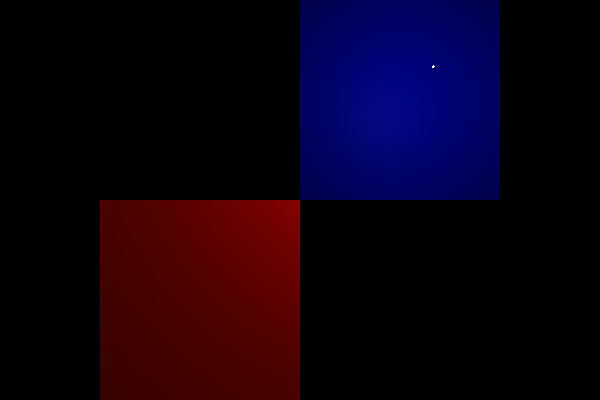
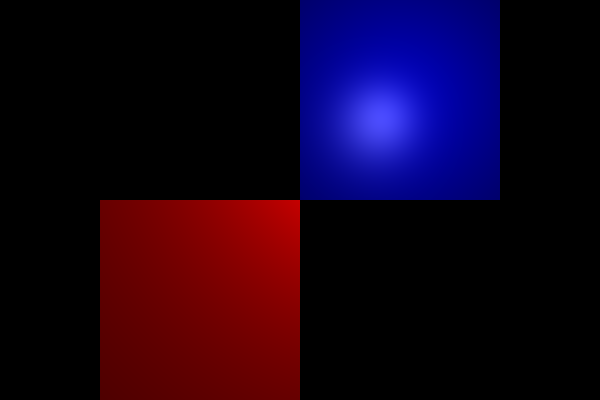
Changed glm's ray-triangle intersection to Möller–Trumbore algorithm.

diff --git a/include/camera.hpp b/include/camera.hpp
@@ -8,7 +8,8 @@
 #include <glm/glm.hpp>
 #include <vector>
 
-// Defines several possible options for camera movement. Used as abstraction to stay away from window-system specific input methods
+// Defines several possible options for camera movement. Used as abstraction to stay away from window-system specific
+// input methods
 enum Camera_Movement { FORWARD, BACKWARD, LEFT, RIGHT, UPWARD, DOWNWARD };
 
 // Default camera values
@@ -18,48 +19,47 @@ const float SPEED = 2.5f;
 const float SENSITIVITY = 0.1f;
 const float ZOOM = 90.0f;
 
-// An abstract camera class that processes input and calculates the corresponding Euler Angles, Vectors and Matrices for use in OpenGL
+// An abstract camera class that processes input and calculates the corresponding Euler Angles, Vectors and Matrices for
+// use in OpenGL
 class Camera {
-public:
-  // Camera Attributes
-  glm::vec3 Position;
-  glm::vec3 Front;
-  glm::vec3 Up;
-  glm::vec3 Right;
-  glm::vec3 WorldUp;
-  // Euler Angles
-  float Yaw;
-  float Pitch;
-  // Camera options
-  float MovementSpeed;
-  float MouseSensitivity;
-  float Zoom;
+  public:
+    // Camera Attributes
+    glm::vec3 Position;
+    glm::vec3 Front;
+    glm::vec3 Up;
+    glm::vec3 Right;
+    glm::vec3 WorldUp;
+    // Euler Angles
+    float Yaw;
+    float Pitch;
+    // Camera options
+    float MovementSpeed;
+    float MouseSensitivity;
+    float Zoom;
 
-  // Constructor with vectors
-  Camera(glm::vec3 position = glm::vec3(0.0f, 0.0f, 0.0f),
-         glm::vec3 front = glm::vec3(0.0f, 0.0f, -1.0f),
-         glm::vec3 up = glm::vec3(0.0f, 1.0f, 0.0f), float yaw = YAW,
-         float pitch = PITCH);
+    // Constructor with vectors
+    Camera(glm::vec3 position = glm::vec3(0.0f, 0.0f, 0.0f),
+           glm::vec3 lookAt = glm::vec3(0.0f, 0.0f, -1.0f),
+           glm::vec3 up = glm::vec3(0.0f, 1.0f, 0.0f));
 
-  // Constructor with scalar values
-  Camera(float posX, float posY, float posZ, float upX, float upY, float upZ,
-         float yaw, float pitch);
+    // Constructor with scalar values
+    Camera(float posX, float posY, float posZ, float upX, float upY, float upZ, float yaw, float pitch);
 
-  // Returns the view matrix calculated using Euler Angles and the LookAt Matrix
-  glm::mat4 GetViewMatrix();
+    // Returns the view matrix calculated using Euler Angles and the LookAt Matrix
+    glm::mat4 GetViewMatrix();
 
-  // Processes input received from any keyboard-like input system. Accepts input parameter in the form of camera defined ENUM (to abstract it from windowing systems)
-  void ProcessKeyboard(Camera_Movement direction, float deltaTime);
+    // Processes input received from any keyboard-like input system. Accepts input parameter in the form of camera
+    // defined ENUM (to abstract it from windowing systems)
+    void ProcessKeyboard(Camera_Movement direction, float deltaTime);
 
-  // Processes input received from a mouse input system. Expects the offset value in both the x and y direction.
-  void ProcessMouseMovement(float xoffset, float yoffset,
-                            bool constrainPitch = true);
+    // Processes input received from a mouse input system. Expects the offset value in both the x and y direction.
+    void ProcessMouseMovement(float xoffset, float yoffset, bool constrainPitch = true);
 
-  // Processes input received from a mouse scroll-wheel event. Only requires input on the vertical wheel-axis
-  void ProcessMouseScroll(float yoffset);
+    // Processes input received from a mouse scroll-wheel event. Only requires input on the vertical wheel-axis
+    void ProcessMouseScroll(float yoffset);
 
-private:
-  // Calculates the front vector from the Camera's (updated) Euler Angles
-  void updateCameraVectors();
+  private:
+    // Calculates the front vector from the Camera's (updated) Euler Angles
+    void updateCameraVectors();
 };
 #endif

diff --git a/src/rayTracer.cpp b/src/rayTracer.cpp
@@ -2,11 +2,7 @@
 #include "model.hpp"
 
 #include <FreeImage.h>
-
-#define GLM_ENABLE_EXPERIMENTAL
 #include <glm/gtc/matrix_transform.hpp>
-#include <glm/gtc/random.hpp>
-#include <glm/gtx/intersect.hpp>
 
 #include <chrono>
 #include <iostream>
@@ -109,24 +105,6 @@ glm::vec3 RayTracer::sendRay(glm::vec3 origin, glm::vec3 dir, int k) {
     return pixel;
 }
 
-bool RayTracer::intersectShadowRayModel(const glm::vec3 &origin, const glm::vec3 &direction) {
-    glm::vec3 baryPosition;
-    for (auto &mesh : model.meshes) {
-        auto &indices = mesh.indices;
-        auto &vertices = mesh.vertices;
-        /* triangles loop */
-        for (unsigned i = 0; i < indices.size(); i += 3) {
-            auto &A = vertices[indices[i]];
-            auto &B = vertices[indices[i + 1]];
-            auto &C = vertices[indices[i + 2]];
-
-            if (glm::intersectRayTriangle(origin, direction, A.Position, B.Position, C.Position, baryPosition))
-                return true;
-        }
-    }
-    return false;
-}
-
 bool RayTracer::intersectRayKDTree(const glm::vec3 &origin, const glm::vec3 &direction, glm::vec3 &cross,
                                    glm::vec3 &normal, Color &color) {
     glm::vec2 baryPos;
@@ -144,41 +122,6 @@ bool RayTracer::intersectRayKDTree(const glm::vec3 &origin, const glm::vec3 &dir
         color = Color(glm::vec3(1.f, 1.f, 1.f), glm::vec3(1.f, 1.f, 1.f), glm::vec3(1.f, 1.f, 1.f), 1.f);
     cross = origin + distance * direction;
     return true;
-}
-
-bool RayTracer::intersectRayModel(const glm::vec3 &origin, const glm::vec3 &direction, glm::vec3 &cross,
-                                  glm::vec3 &normal, Color &color) {
-    float minDist = FLT_MAX;
-    Mesh *closestMesh = NULL;
-    glm::vec2 closestPos;
-
-    for (auto &mesh : model.meshes) {
-        auto &indices = mesh.indices;
-        auto &vertices = mesh.vertices;
-        /* triangles loop */
-        for (unsigned i = 0; i < indices.size(); i += 3) {
-            auto &A = vertices[indices[i]];
-            auto &B = vertices[indices[i + 1]];
-            auto &C = vertices[indices[i + 2]];
-
-            glm::vec3 baryPosition;
-            float &currentDist = baryPosition.z;
-            if (glm::intersectRayTriangle(origin, direction, A.Position, B.Position, C.Position, baryPosition) &&
-                currentDist < minDist) {
-                minDist = currentDist;
-                float baryPositionZ = 1.f - baryPosition.x - baryPosition.y;
-                closestMesh = &mesh;
-                closestPos = A.TexCoords * baryPositionZ + B.TexCoords * baryPosition.x + C.TexCoords * baryPosition.y;
-                normal = A.Normal * baryPositionZ + B.Normal * baryPosition.x + C.Normal * baryPosition.y;
-            }
-        }
-    }
-    if (closestMesh) {
-        cross = origin + minDist * direction;
-        color = closestMesh->getColorAt(closestPos);
-        return true;
-    }
-    return false;
 }
 
 uint8_t *RayTracer::getData() { return data.data(); }

diff --git a/src/kdtree.cpp b/src/kdtree.cpp
@@ -1,10 +1,6 @@
 #include "kdtree.hpp"
 #include "model.hpp"
 
-#define GLM_ENABLE_EXPERIMENTAL
-#include <glm/gtc/random.hpp>
-#include <glm/gtx/intersect.hpp>
-
 #include <glm/gtx/io.hpp>
 
 #include <algorithm>
@@ -185,12 +181,35 @@ bool KDTree::intersectRay(const glm::vec3 &origin, const glm::vec3 &dir, Triangl
         return false;
     return intersectRayNode(origin, dir, triangle, baryPosition, distance, nodes[0], intersect.first, intersect.second);
 }
+
+/* based off original Möller–Trumbore algorithm */
 bool KDTree::intersectRayTriangle(const glm::vec3 &origin, const glm::vec3 &dir, const Triangle &tri,
                                   glm::vec2 &baryPosition, float &distance) {
-    glm::vec3 baryPos;
-    return glm::intersectRayTriangle(origin, dir, vertices[tri.fst].Position, vertices[tri.snd].Position,
-                                     vertices[tri.trd].Position, baryPos) &&
-           (baryPosition.x = baryPos.x, baryPosition.y = baryPos.y, distance = baryPos.z);
+    const glm::vec3 v0 = vertices[tri.fst].Position;
+    const glm::vec3 e1 = vertices[tri.snd].Position - v0;
+    const glm::vec3 e2 = vertices[tri.trd].Position - v0;
+
+    const glm::vec3 p = glm::cross(dir, e2);
+
+    const float a = glm::dot(e1, p);
+
+    const float Epsilon = std::numeric_limits<float>::epsilon();
+    if (a < Epsilon && a > -Epsilon)
+        return false;
+
+    const float f = 1.f / a;
+
+    const glm::vec3 s = origin - v0;
+    baryPosition.x = f * glm::dot(s, p);
+    if (baryPosition.x < 0.f || baryPosition.x > 1.f)
+        return false;
+
+    const glm::vec3 q = glm::cross(s, e1);
+    baryPosition.y = f * glm::dot(dir, q);
+    if (baryPosition.y < 0.f || baryPosition.y + baryPosition.x > 1.f)
+        return false;
+
+    return (distance = f * glm::dot(e2, q)) >= 0.f;
 }
 bool KDTree::intersectRayNode(const glm::vec3 &origin, const glm::vec3 &dir, Triangle &triangle,
                               glm::vec2 &baryPosition, float &distance, KDTree::KDNode &node, float tmin, float tmax) {

diff --git a/include/rayTracer.hpp b/include/rayTracer.hpp
@@ -33,15 +33,8 @@ class RayTracer {
     /* Recursive procedure used by rayTrace method */
     glm::vec3 sendRay(glm::vec3 origin, glm::vec3 dir, int k);
 
-    /* Intersect ray specified by origin and direction with every triangle in the kd-tree, storing the hitpoint in params: cross, normal, color */
+    /* Intersect ray specified by origin and direction with kd-tree, storing the hitpoint in params: cross, normal, color */
     bool intersectRayKDTree(const glm::vec3 &origin, const glm::vec3 &direction, glm::vec3 &cross, glm::vec3 &normal, Color &color);
-
-    /* Intersect ray specified by origin and direction with every triangle in the model, storing the hitpoint in params: cross, normal, color */
-    bool intersectRayModel(const glm::vec3 &origin, const glm::vec3 &direction, glm::vec3 &cross, glm::vec3 &normal, Color &color);
-
-    /* Intersect shadow ray specified by origin and direction with every triangle in the model */
-    bool intersectShadowRayModel(const glm::vec3 &origin, const glm::vec3 &direction);
-
 
     Model &model;
     Scene &scene;

diff --git a/src/camera.cpp b/src/camera.cpp
@@ -5,16 +5,16 @@
 
 #include <glad/glad.h>
 
+#include <glm/glm.hpp>
 #include <glm/gtc/matrix_transform.hpp>
 
-Camera::Camera(glm::vec3 position, glm::vec3 front,
-               glm::vec3 up, float yaw, float pitch)
+Camera::Camera(glm::vec3 position, glm::vec3 lookAt, glm::vec3 up)
     : MovementSpeed(SPEED), MouseSensitivity(SENSITIVITY), Zoom(ZOOM) {
-    Front = front;
+    glm::vec3 direction = glm::normalize(position - lookAt);
     Position = position;
     WorldUp = up;
-    Yaw = yaw;
-    Pitch = pitch;
+    Yaw = atan2(direction.x, direction.z);
+    Pitch = asin(direction.y) + 1.57079632679;
     updateCameraVectors();
 }
 
@@ -45,7 +45,7 @@ void Camera::ProcessKeyboard(Camera_Movement direction, float deltaTime) {
         Position += Up * velocity;
 }
 
-void Camera::ProcessMouseMovement(float xoffset, float yoffset, bool constrainPitch ) {
+void Camera::ProcessMouseMovement(float xoffset, float yoffset, bool constrainPitch) {
     xoffset *= MouseSensitivity;
     yoffset *= MouseSensitivity;
 

diff --git a/src/openglPreview.cpp b/src/openglPreview.cpp
@@ -12,8 +12,8 @@
 
 OpenGLPreview::OpenGLPreview(Scene *_scene)
     : scene(_scene), previewHeight(_scene->previewHeight),
-      previewWidth(((double)_scene->xres / _scene->yres) * _scene->previewHeight),
-      camera(_scene->VP, glm::normalize(_scene->LA - _scene->VP)), showRender(false) {
+      previewWidth(((double)_scene->xres / _scene->yres) * _scene->previewHeight), camera(_scene->VP, _scene->LA, _scene->UP),
+      showRender(false) {
     glfwInit();
     glfwWindowHint(GLFW_CONTEXT_VERSION_MAJOR, 3);
     glfwWindowHint(GLFW_CONTEXT_VERSION_MINOR, 3);
